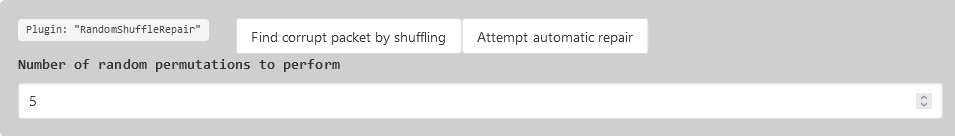
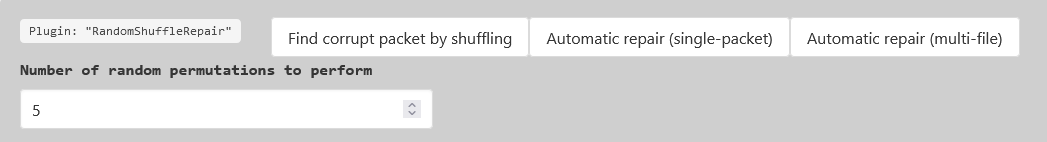
update documentation for automatic multi-file repair

diff --git a/README.md b/README.md
@@ -13,7 +13,7 @@ However, the concept behind this tool could be used for any fountain-code based 
 
 # Requirements
 
-Fot the installation, Python 3.8 (or newer) and pip (we recommend 22.1.2 or newer) is required 
+Fot the installation, Python 3.8 (or newer) and pip (we recommend 22.1.2 or newer) is required
 The software has been tested on Ubuntu 20.04, Ubuntu 22.04 and Windows 11, but should work on any system supporting
 Python 3.
 
@@ -392,8 +392,13 @@ The plugin is only active in this case.
   equally, all packets that have not differing bytes must either both have or have not used the corrupt packet to reduce
   the row.
   Using enough of these information, the corrupt packet can be identified.
-- "_Attempt automatic repair_": This will use the technique described above to attempt an automatic repair. The error
+- "_Attempt automatic repair (single-packet)_": This will use the technique described above to attempt an automatic repair. The error
   delta can be directly calculated from one of the differing set of the same row.
+- "_Automatic Repair (multi-file)_" if, after "Finding corrupt packet by shuffling", there are multiple packets which
+  might be the corrupt packet, this will create and save all possible repaired versions of the file. 
+  If the header-chunk of the NOREC4DNA encoding exists and contains a file-wide checksum, this will automatically detect
+  the version which produces the correct checksum.
+  This might improve the recovery speed as generating more permutations will increase the runtime.
 
 ![random_shuffle.png](documentation/random_shuffle.png)
 
